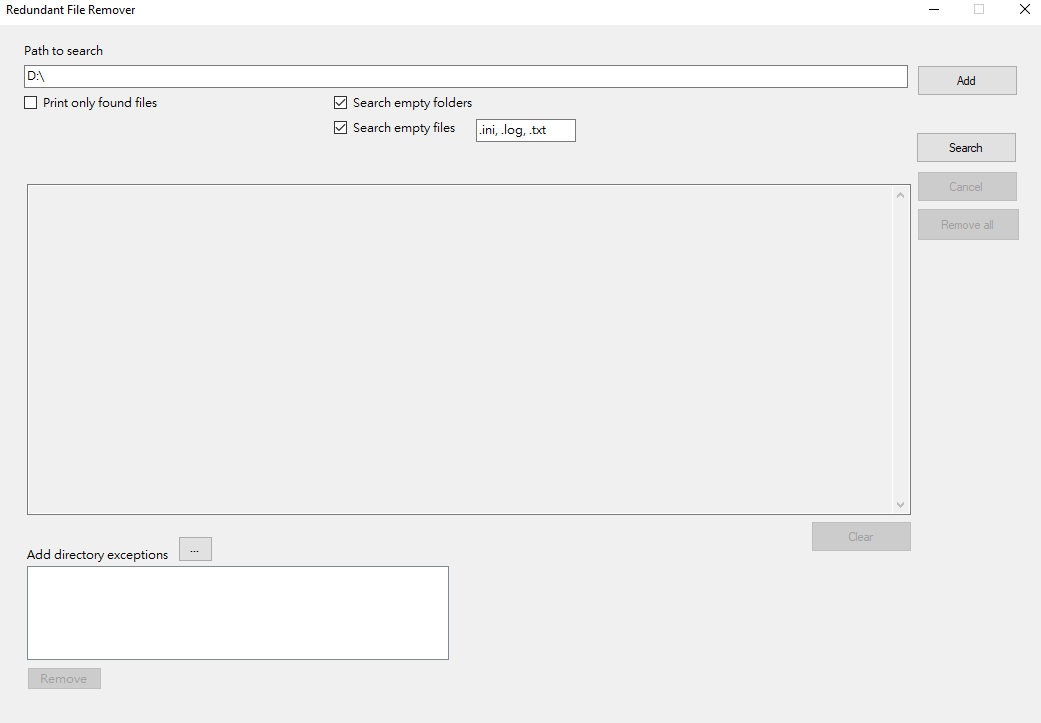
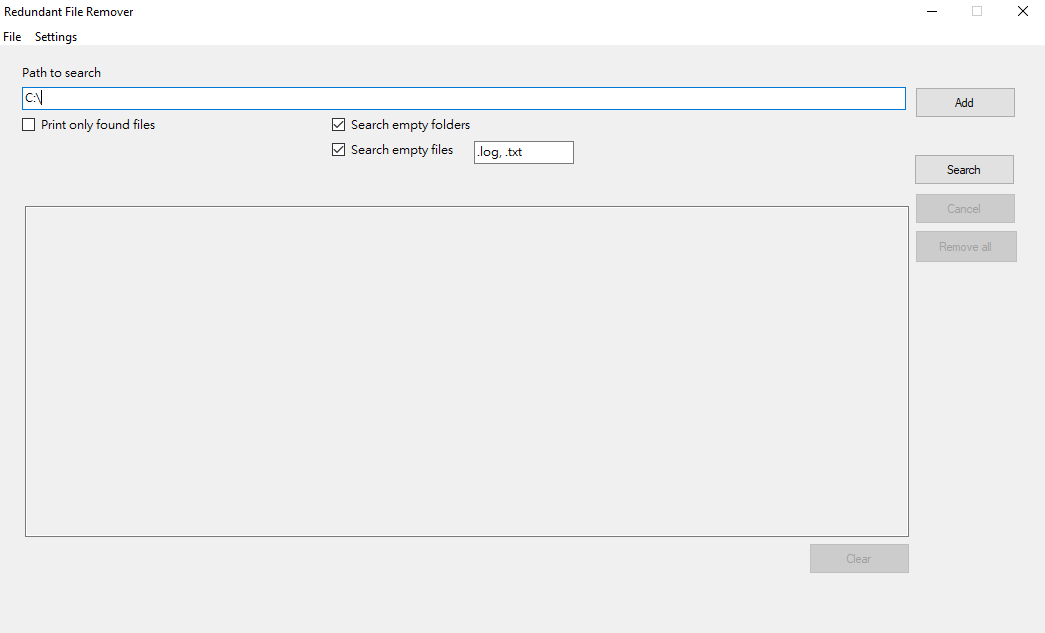
New main window

diff --git a/README.md b/README.md
@@ -8,7 +8,7 @@ _This is the first C# project I created in December 2020 in my boredom._
 # Features
 Currently it is only available on Windows.
 
-- Ability to search in the root directory including sub-directories
+- Ability to search in the root directory including sub-directories (optional)
   - During the search operation the program ignores the system files (like program files, system).
 - Option to remove all found empty files and folders
 - Path exceptions when the program does not search for empty files in the specified directories
